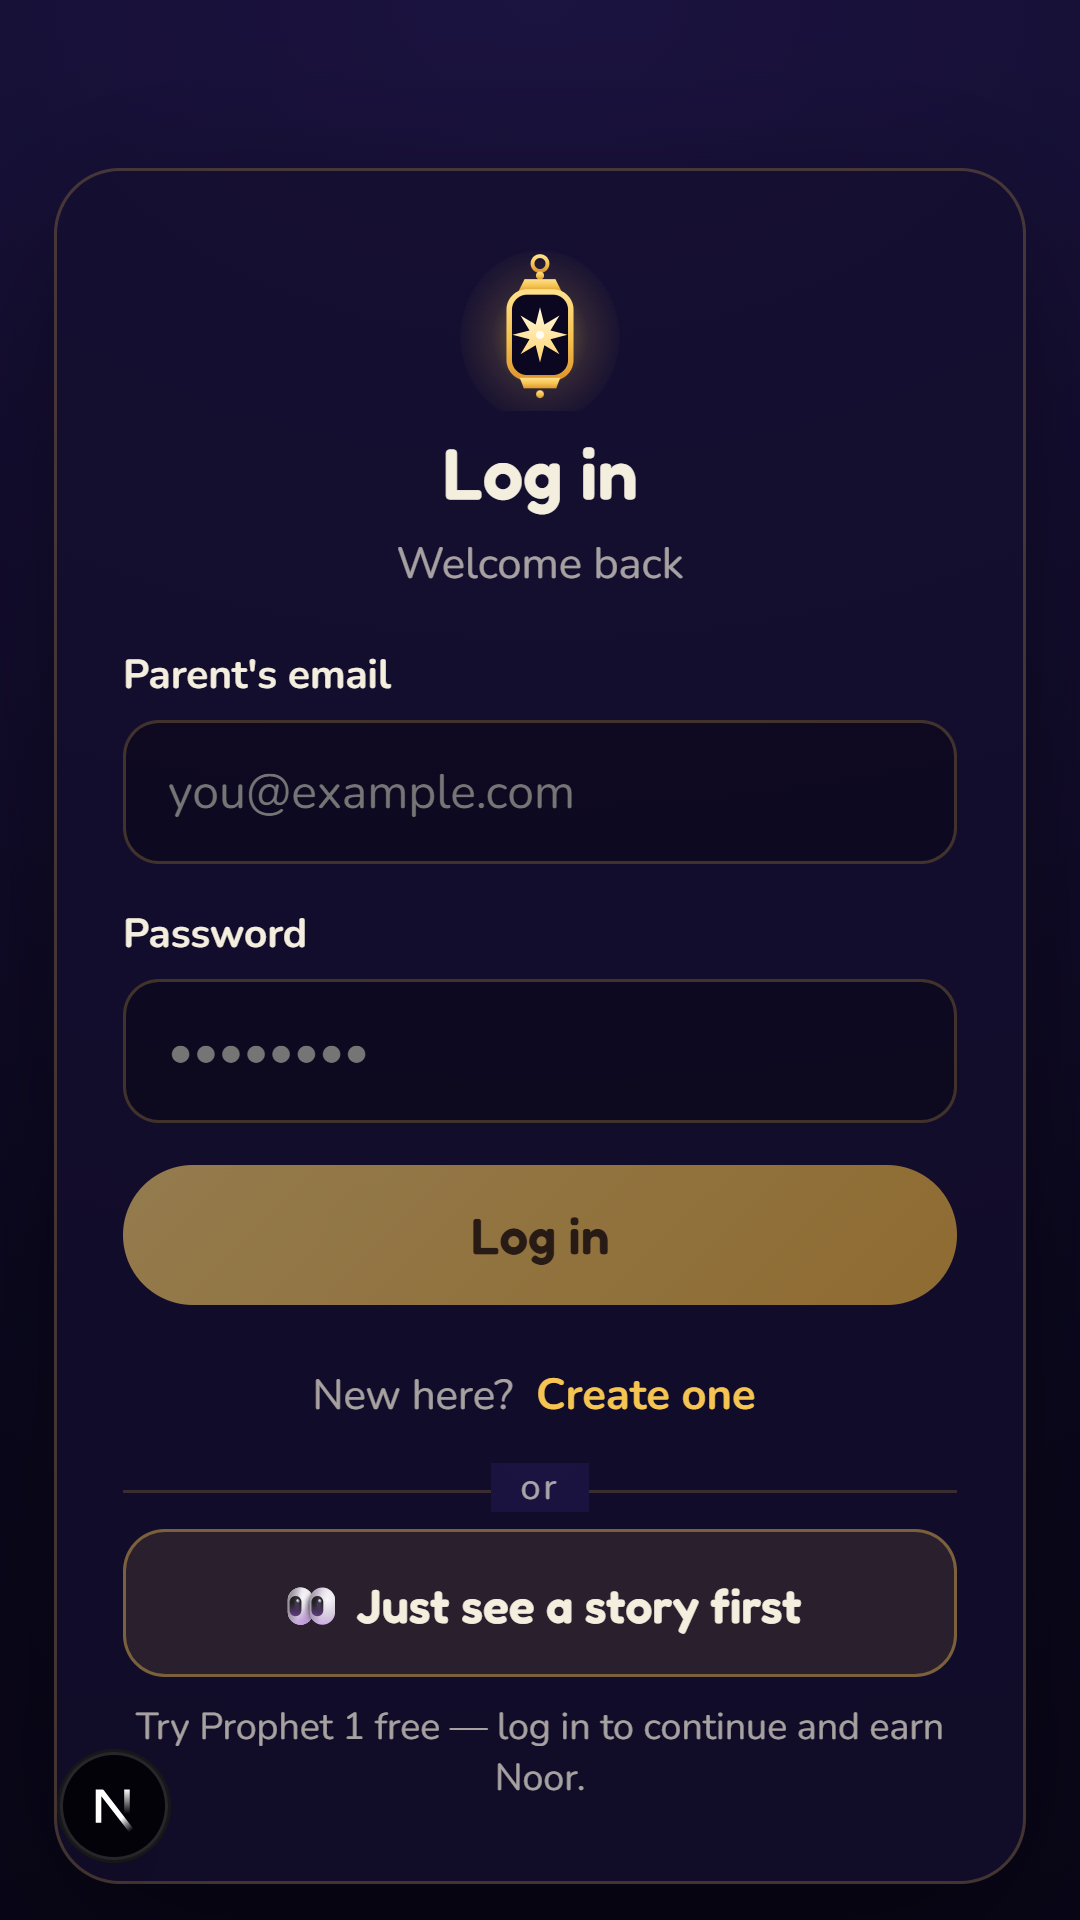
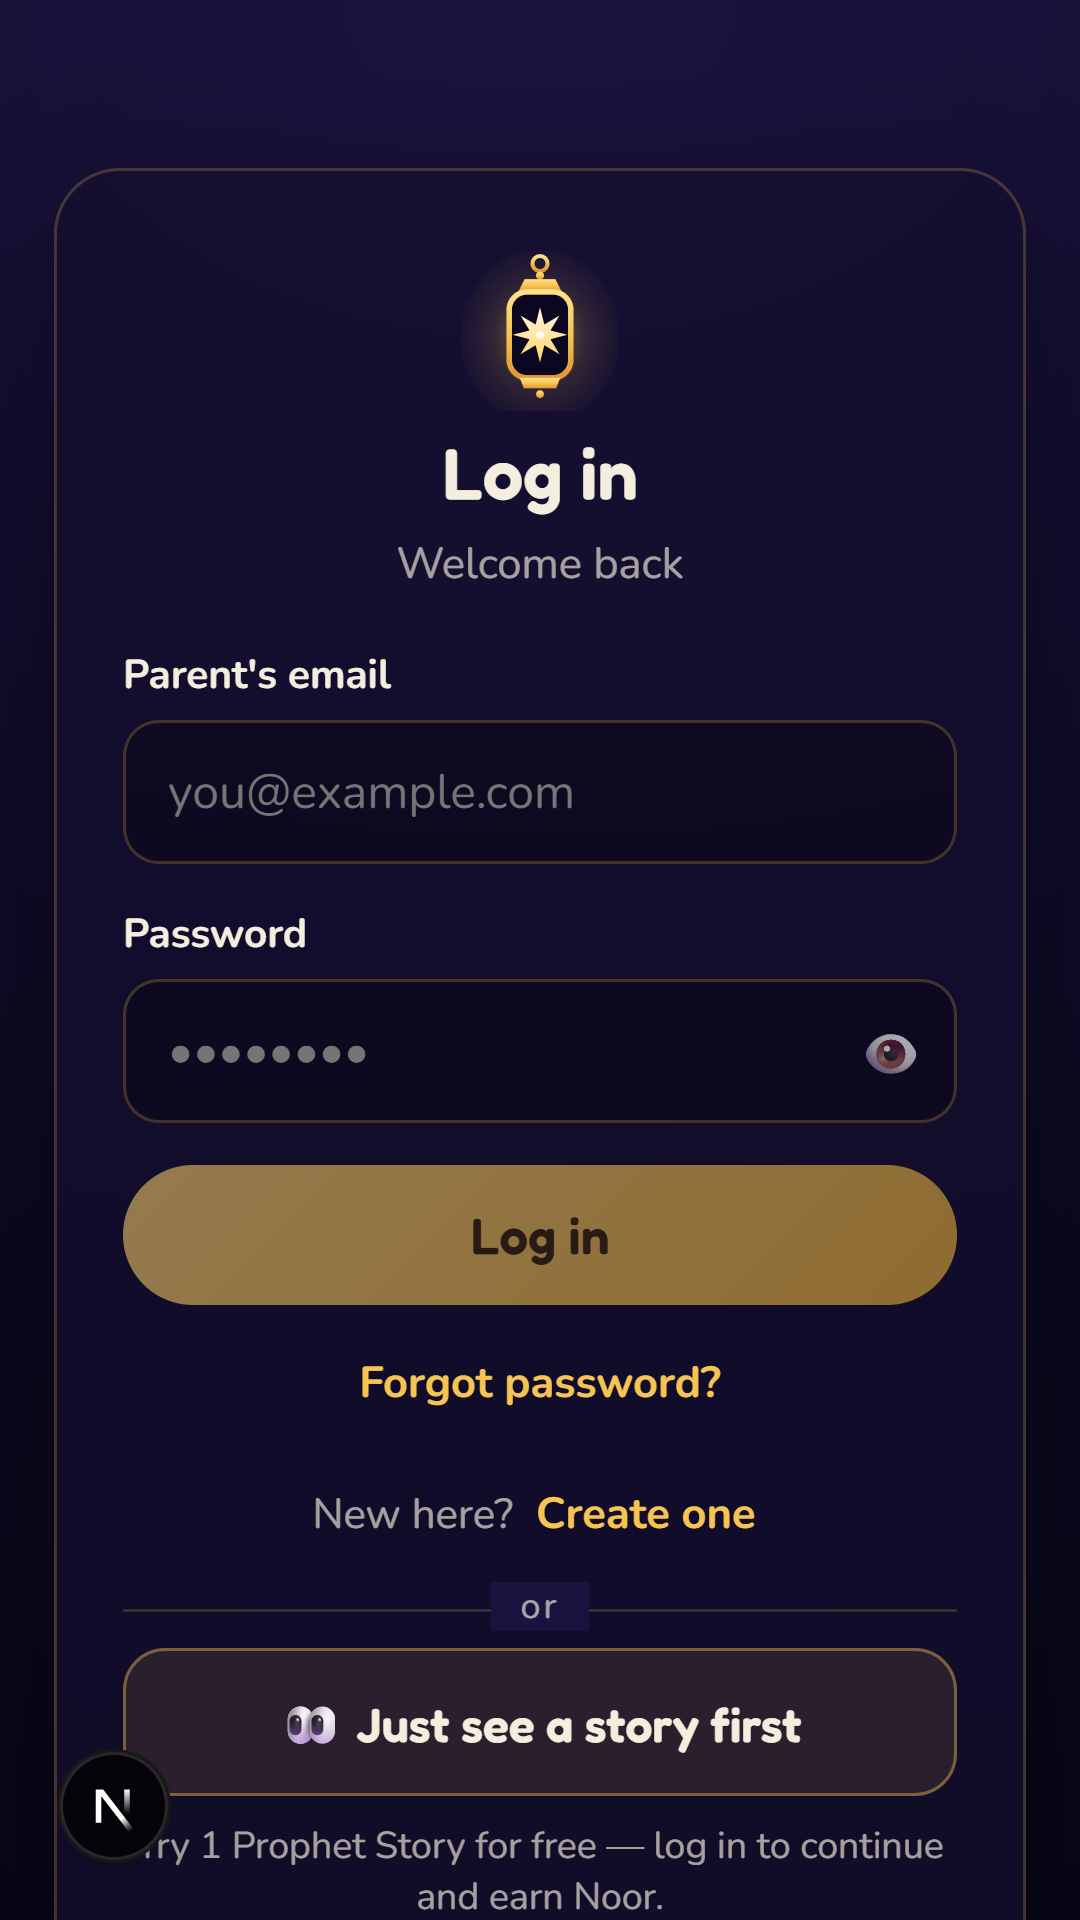
Store assets: refresh login screenshots + add tablet/Chromebook/XR sets
- Recapture 03-login.png (phone + iOS 6.7"/6.5") so it shows the new
  "Forgot password?" link and the password show/hide eye toggle.
- Add the previously-untracked store-asset folders: tablet-7, tablet-10,
  Chromebook, and Android XR screenshot sets, plus the playstore-robo
  pre-launch crawler scripts.
- Include the screenshot tooling: build-xr-screenshots.mjs and the
  capture-screenshots.mjs updates that generate these form factors.

diff --git a/playstore-robo/README.md b/playstore-robo/README.md
@@ -1,0 +1,61 @@
+# Robo scripts for Safar-e-Anbiya (Android / Play Console)
+
+These guide the **Robo crawler** in Google Play Console's **Pre-launch report**
+(and Firebase Test Lab) past the splash → intro → auth screens, so the automated
+test actually explores the app instead of getting stuck on the login wall.
+
+Two files:
+
+| File | Use | Needs a test account? |
+|------|-----|-----------------------|
+| **`robo-guest.json`** | **Recommended.** Clicks into the free **guest story** — pure button taps, very robust. | No |
+| `robo-login.json` | Best-effort: logs into a real signed-in account. | Yes — edit the file first |
+
+## Why guest is the primary script
+
+The app is a **TWA** (a thin Android shell around the live website), so every
+screen is web content inside an `android.webkit.WebView`. Robo matches WebView
+elements by **visible text**, which works great for buttons. But **typing into
+web `<input>` fields is unreliable** in Robo — so the login script is best-effort.
+The guest path needs no typing, so prefer it.
+
+## Before using `robo-login.json`
+
+Open it and replace:
+- `[email redacted]` → a throwaway **test** parent account
+- `REPLACE_WITH_TEST_PASSWORD` → its password
+
+Use a disposable account (the crawler may tap around, including destructive menu
+items like *Delete account*). If text entry fails in the report, fall back to
+`robo-guest.json`.
+
+## How to upload
+
+**Google Play Console**
+1. Console → your app → **Test and release → Pre-launch report → Settings**.
+2. Under **Robo script**, upload `robo-guest.json` (or `robo-login.json`).
+3. Save. The next release uploaded to a testing track runs the crawler with it.
+
+**Firebase Test Lab (gcloud CLI)**
+```bash
+gcloud firebase test android run \
+  --type robo \
+  --app app-release.aab \
+  --robo-script playstore-robo/robo-guest.json \
+  --timeout 5m
+```
+
+**Android Studio** — *Run → Record Espresso Test* isn't this; use
+**Run → Edit Configurations → Robo test → Robo script** to attach the file when
+running a Robo test on a connected device/emulator.
+
+## Tuning notes
+
+- Every action is `optional: true` so a single missed match doesn't abort the run.
+- The leading `WAIT_FOR_ELEMENT` (20s) absorbs the WebView's first paint / network
+  load. If the device is slow or offline, bump `delayTime`.
+- Button labels are matched with loose `textRegex` (e.g. `.*see a story first.*`)
+  plus a `visionText` OCR fallback, so minor copy changes won't break them. If you
+  rename a button in the app, update the matching regex/visionText here.
+- The login script's "signed-in" wait keys off the word **Noor** on the map; change
+  it if that label changes.